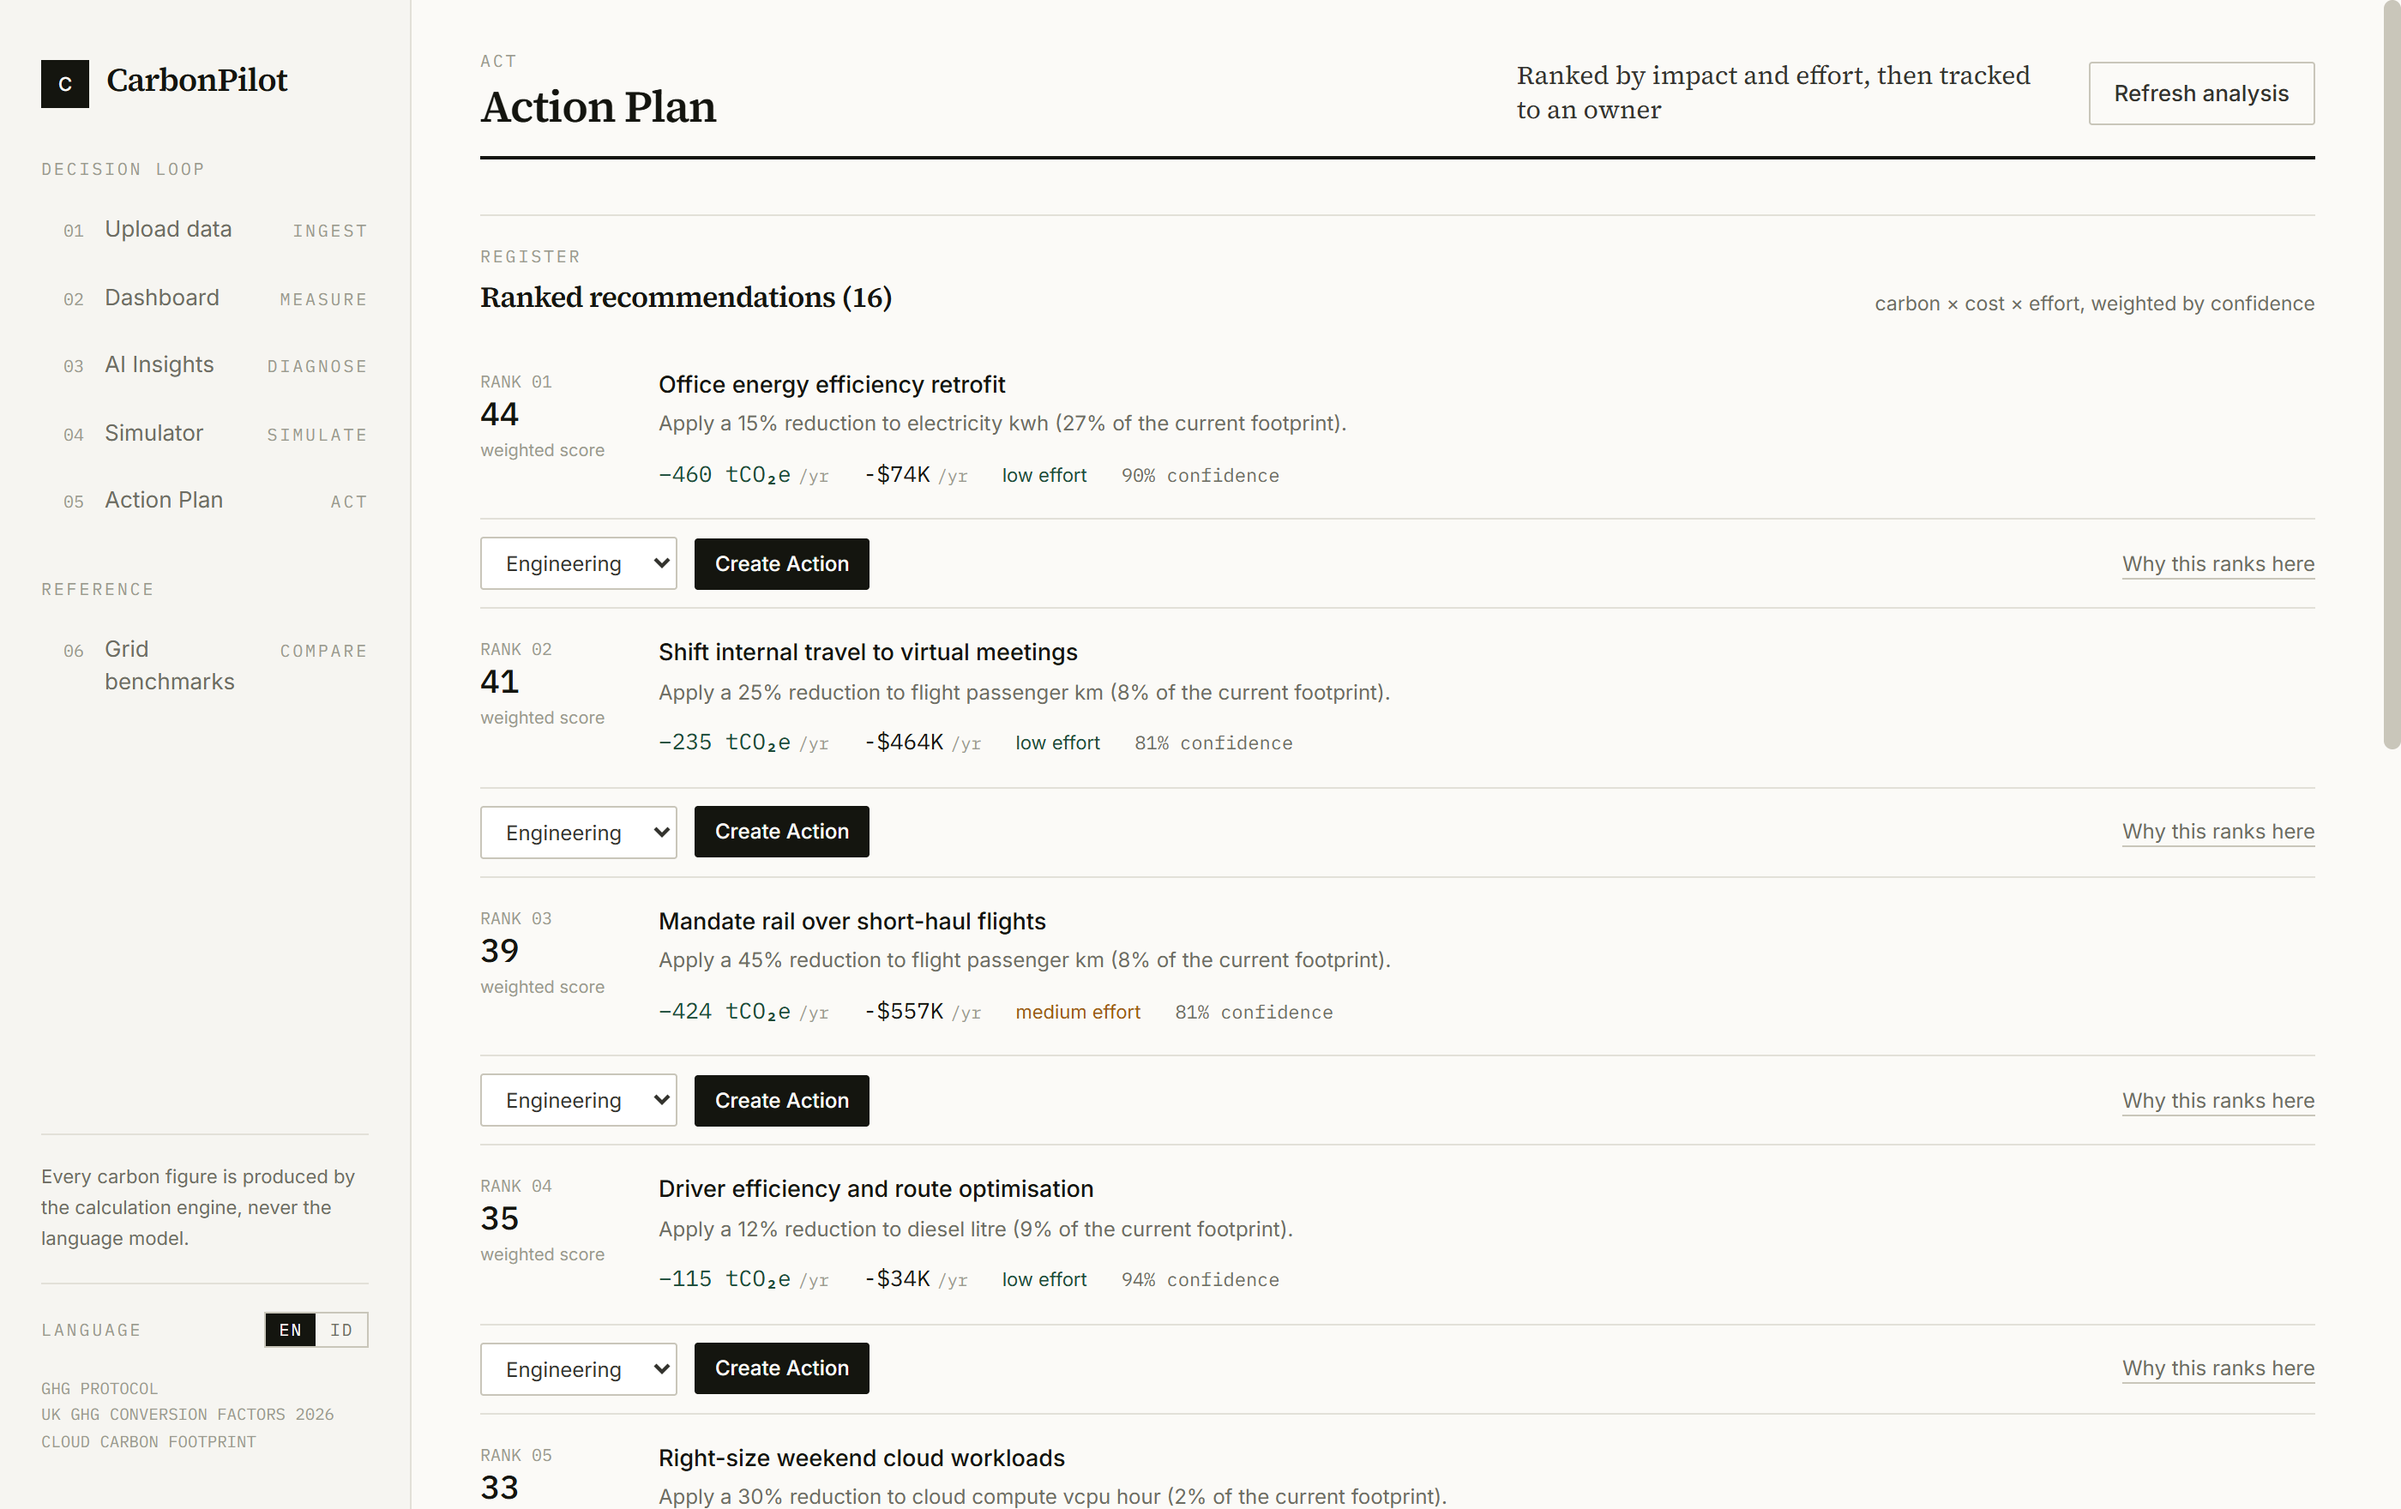
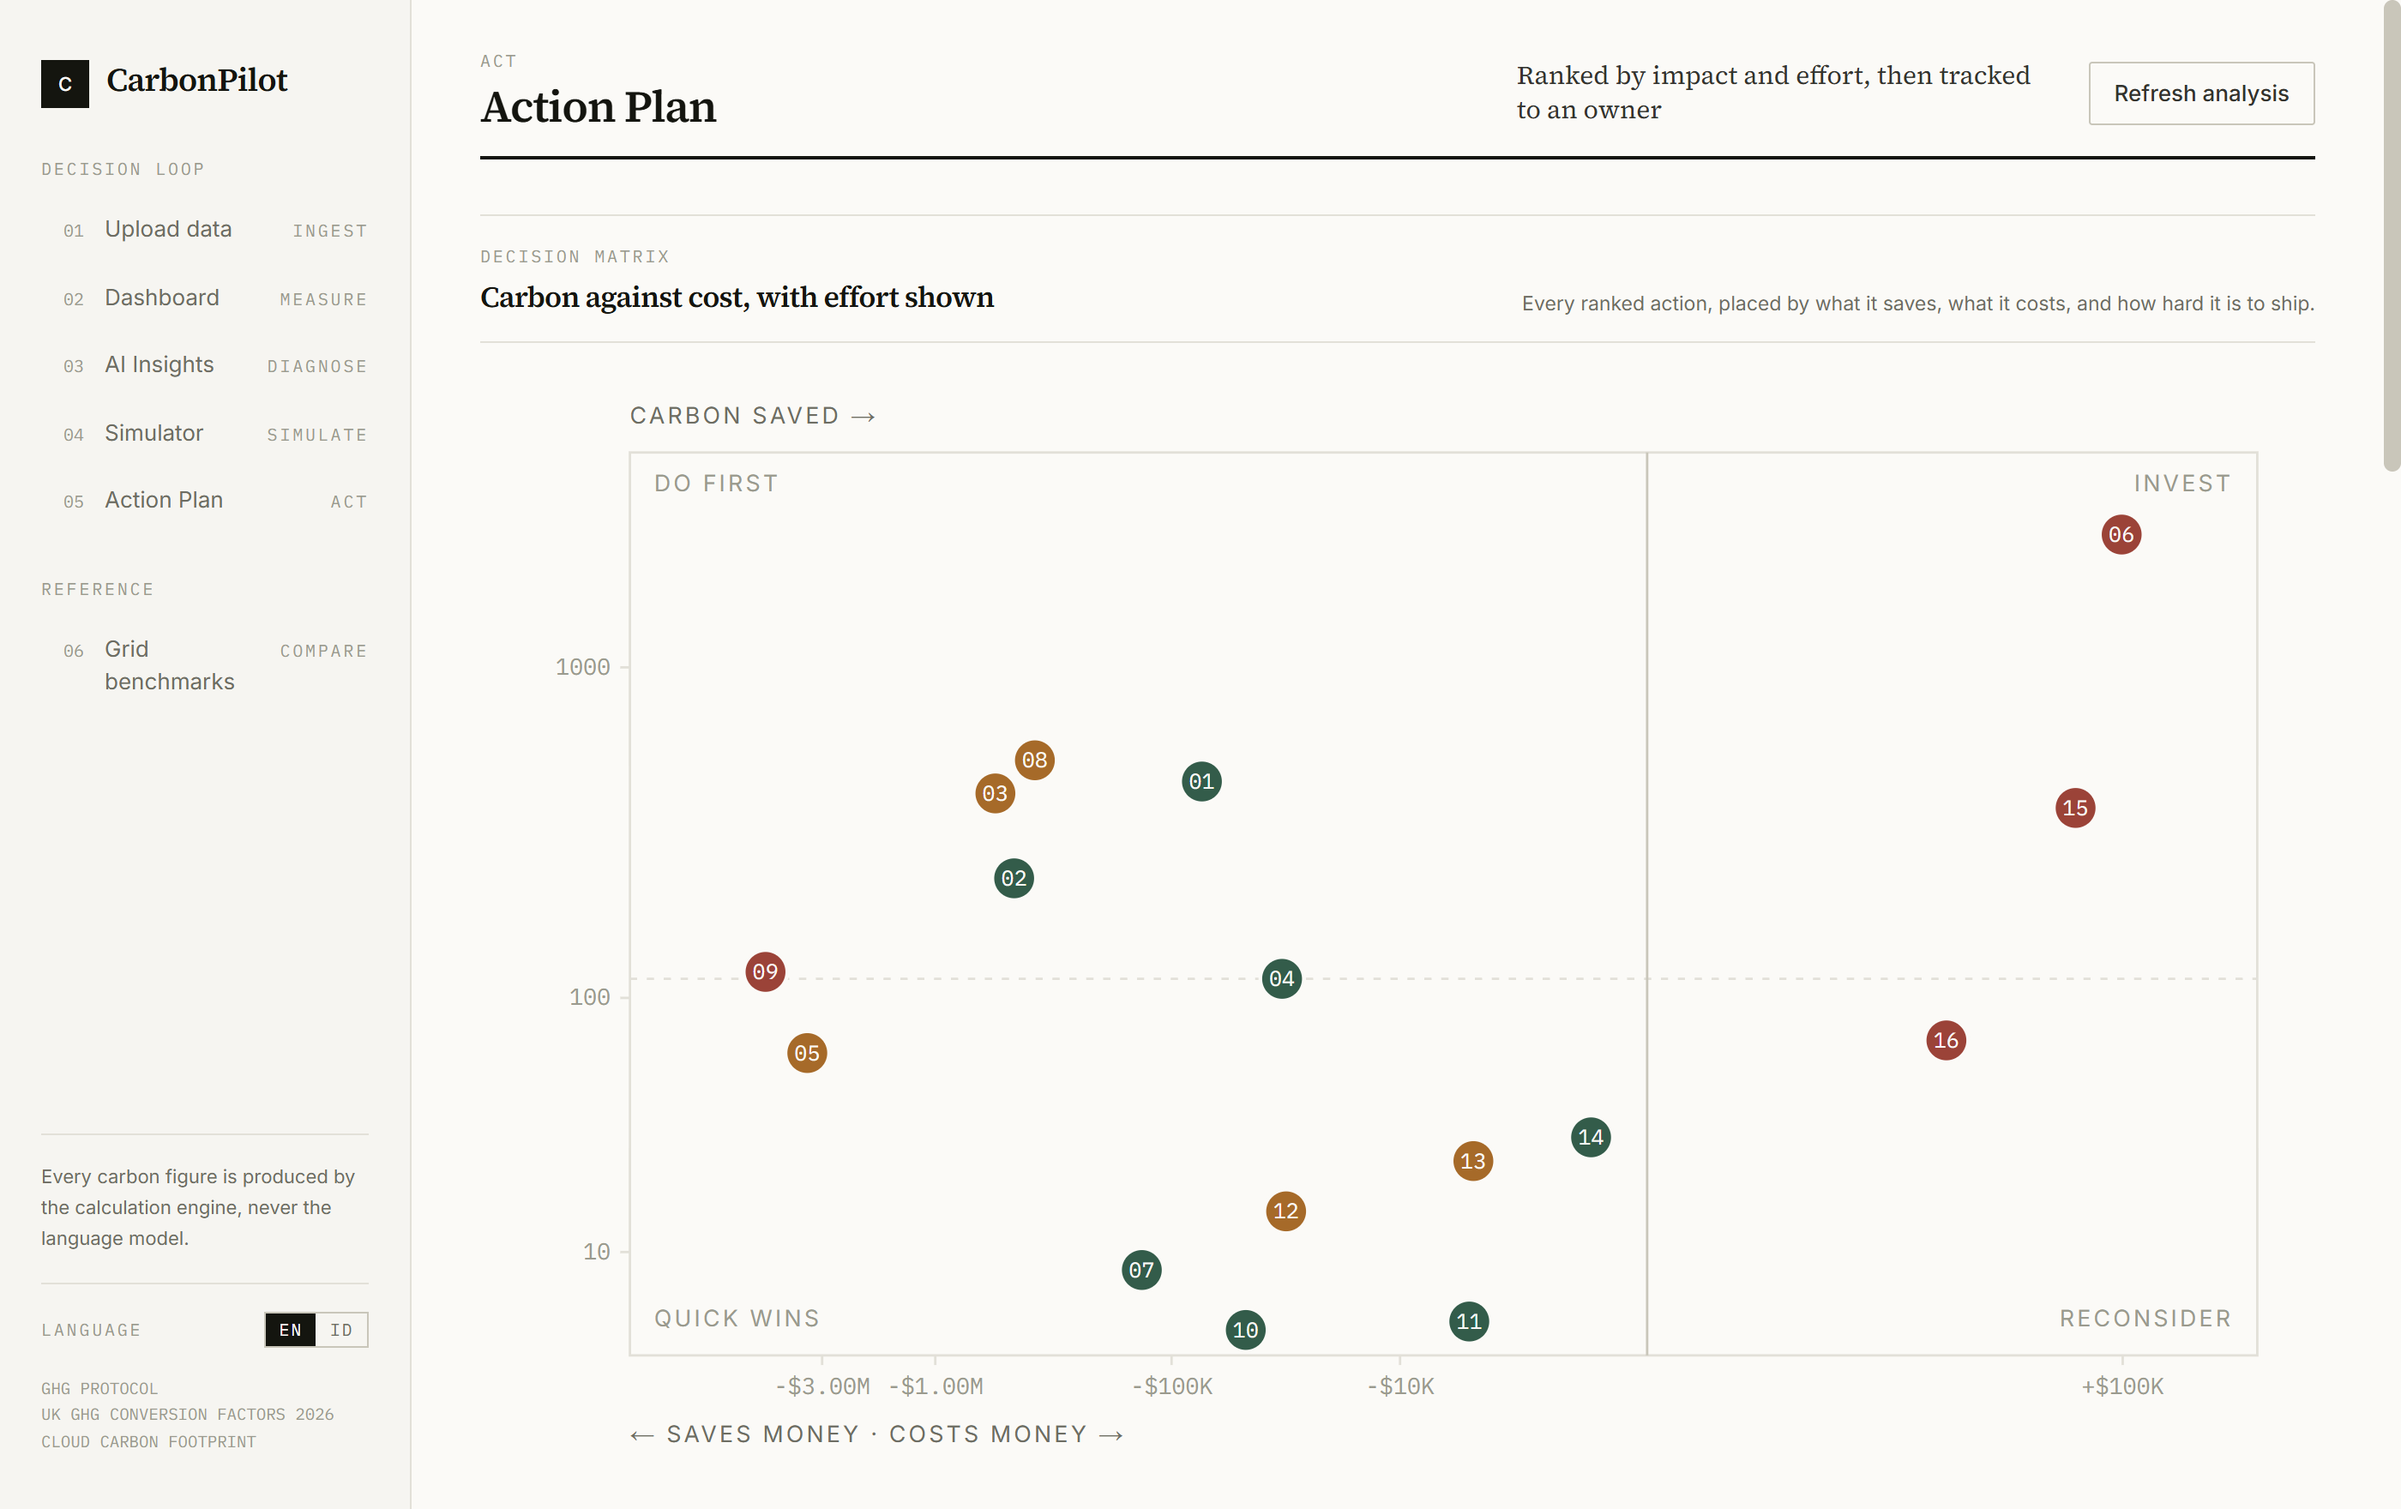
docs: refresh the images and write the new capability into the docs
The screenshots and the walkthrough GIF were captured before the matrix, the hero button
and the per-card comparison existed, so the README was advertising a UI that no longer
shipped. Regenerated from the deployed instance: three screen captures and the twelve GIF
frames whose pages changed.

README gains the fifth claim (the trade-off is on the page), a row for the deck, and the
deck's URL beside the live one. DEMO.md now opens the Ask panel on the hero question, and
the Action Plan section starts at the matrix and reads one comparison line out loud -
plus two judge questions with the real numbers behind them.

diff --git a/DEMO.md b/DEMO.md
@@ -6,6 +6,10 @@ Run order: backend on :8008, frontend on :3000. Reset the demo data before you p
 cd backend && .venv/Scripts/python -m app.seed --seed-db
 ```
 
+**Presenting.** The deck lives at `/pitch/` on the running app (six slides, arrow keys to move,
+`N` for the speaker notes, `Ctrl-P` for a PDF). It is also the fallback if the venue network
+fails: it is one self-contained folder, and every number on it comes from this same dataset.
+
 ---
 
 ## 0:00–0:22 — Problem
@@ -45,7 +49,12 @@ Point at the mapping table (both rows, with their confidence) and the first rows
 this file again would add 24 duplicate rows and move the hero number off 11,208 mid-presentation.
 If you want to show the import, do it last, then re-run `preflight.py --reset`.
 
-Then go to the **Dashboard** and use the **Ask panel** with:
+Then go to the **Dashboard** and use the **Ask panel**. Open with the hero button — it is the
+constraint question, which is the interaction worth showing:
+
+> *"Reduce our carbon footprint by 15% without increasing costs."*
+
+Then the quieter one:
 
 > *"Where are our biggest emissions?"*
 
@@ -89,9 +98,17 @@ Set min. carbon reduction = **15%**, max cost increase = **0**, click **Find sce
 
 Go to **Action Plan**.
 
-> "Recommendations are ranked by carbon × cost × effort, weighted by confidence — not by whichever
-> bar is biggest. A 460-tonne retrofit that saves $74K and is easy to ship outranks a huge
-> renewable PPA that costs money and takes two years."
+**Start with the matrix at the top.** It plots every recommendation on carbon against cost, with
+effort as the colour, and the quadrants are labelled:
+
+> "This is the decision, not the ranking. Top left is where the cheap large reductions live. That
+> is why a 460-tonne retrofit that saves $74K outranks a much larger renewable PPA that costs money
+> and takes two years — and you can see it rather than take my word for it."
+
+Then scroll to the ranked register and read one card's comparison line out loud:
+
+> "Against the action ranked below it: **224 tonnes more carbon saved, $390K a year costlier, same
+> effort.** That sentence is computed from the same numbers as everything else on this page."
 
 Click **Create Action**, assign the owner.
 
@@ -146,3 +163,5 @@ check. Fix anything it reports, then work through the rest by hand:
 | "Why is cloud only ~2% of emissions?" | Because per-vCPU-hour intensities genuinely are small (Cloud Carbon Footprint). It's about a third of *spend* though (33%) — which is why the decision layer, not the accounting layer, is the product. |
 | "What's fake here?" | The company and its activity data are synthetic. The methodology, the emission factors, the statistics and the engines are real. |
 | "Can it read our real data?" | Yes — CSV upload, long or wide format, with a semantic mapping preview before anything is calculated. Every import is scored by scope: in the demo file, purchased electricity lands in Scope 2 and natural gas in Scope 1. |
+| "So what did the constraint search actually return?" | Ask for −15% carbon and no cost increase and it returns **−33.8% carbon, −$775K/year** from four actions, out of 342 feasible combinations of the 2,098 evaluated. The engine beats the constraint because the cheapest large reductions are cheaper than the baseline, not because it was told to. |
+| "Why is one action ranked above another?" | Every recommendation carries a one-line comparison against the action ranked immediately below it — how much more or less carbon, how much cheaper or costlier, and whether it is easier to ship. It is computed, not narrated. |

diff --git a/README.md b/README.md
@@ -6,6 +6,7 @@ Companies can already measure their carbon footprint. CarbonPilot answers the ne
 question: **what should we do about it?**
 
 **Live demo:** <https://rakazo-civo.tail1b51ed.ts.net:8443>
+**Pitch deck:** <https://rakazo-civo.tail1b51ed.ts.net:8443/pitch/>
 
 ![Walkthrough](docs/images/walkthrough.gif)
 
@@ -112,6 +113,21 @@ A single FastAPI process serves the UI and the API on one port. No CORS layer, n
 deployment, no vendor onboarding, no annual contract. For the mid-market and regional
 organisations this was built for, that is the difference between adopting a tool and
 starting a procurement project.
+
+### 5. The trade-off is on the page, not in a consultant's deck
+
+`/actions` opens with a matrix: every recommendation plotted on carbon against cost, coloured by
+implementation effort, with the quadrants named. A ranked list answers *which is best*; it never
+answers *why is this above that*.
+
+Each card then carries a computed comparison against the action ranked immediately below it —
+*"224 tCO₂e more saved, $390K/yr costlier, same effort"*. The engine writes that sentence, not the
+model, because the ranking is deterministic and its explanation has to be a property of the data
+rather than a second opinion about it.
+
+Both axes are logarithmic, and the chart says so rather than letting a reader assume
+proportionality. A linear cost axis squashes fifteen actions against the wall to make room for one
+$3.4M outlier; hiding the scale would have been the sloppier choice.
 
 ## How it works
 
@@ -313,6 +329,8 @@ backend/     FastAPI + SQLAlchemy — deterministic engines + Gemini tool-callin
   app/routers/   one module per surface
   scripts/       preflight.py (smoke test), seed helpers
 frontend/    Next.js + Tailwind + Recharts — six screens, static export
+  public/pitch/   the presentation deck: one self-contained HTML file, plus its fonts
+  scripts/        export-pitch-fonts.mjs — copies the app's typefaces into the deck
 docs/        the images used by this README
 ```
 
@@ -322,6 +340,7 @@ docs/        the images used by this README
 | [`DEMO.md`](DEMO.md) | The 3-minute demo script and click order |
 | [`DEPLOY.md`](DEPLOY.md) | Topology, the one-URL decision, and the risks |
 | [`DESIGN.md`](DESIGN.md) | The design system the UI is built from |
+| `frontend/public/pitch/` | The five-slide presentation — served at `/pitch/` |
 
 ## Tests and the demo smoke test
 
